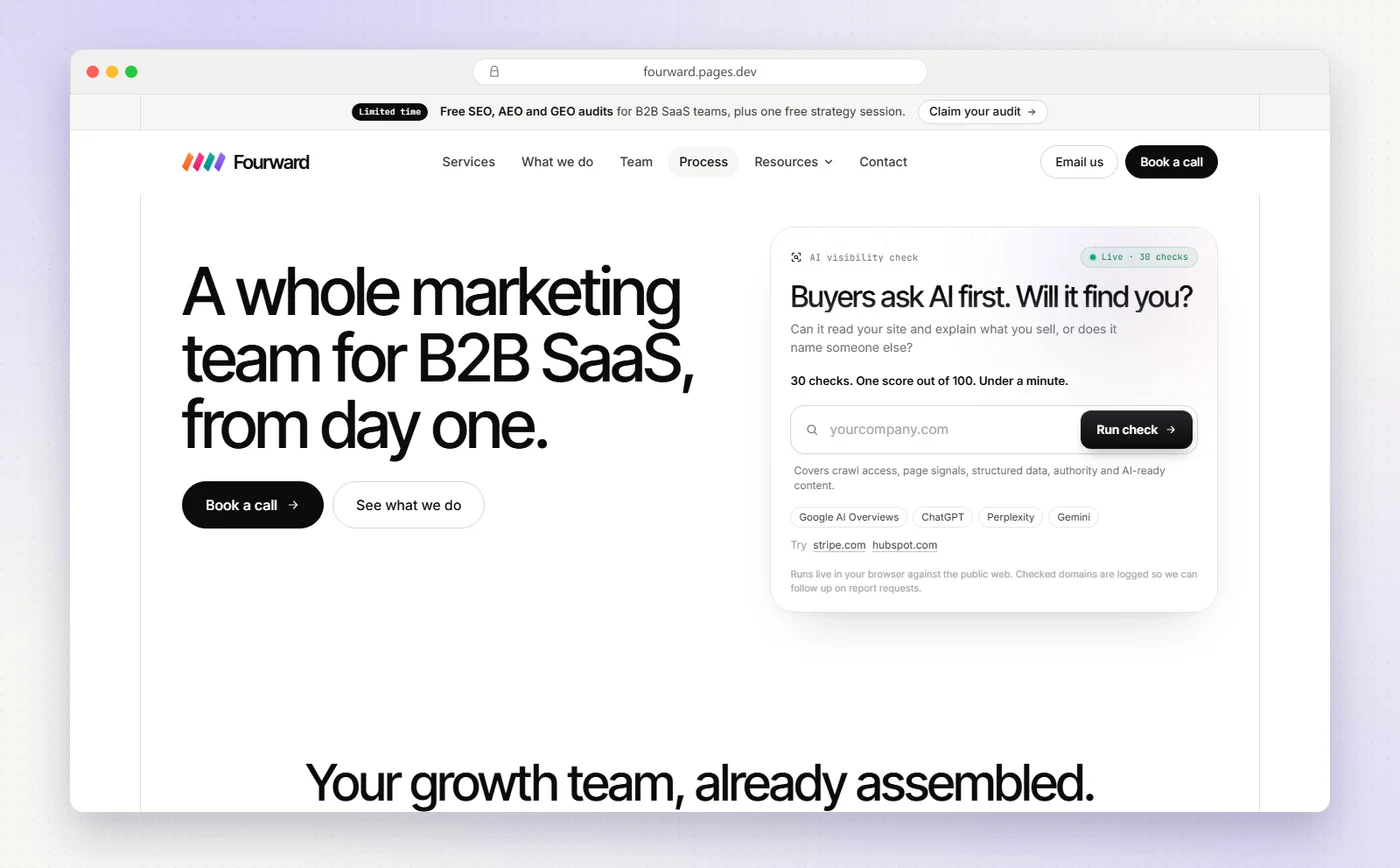
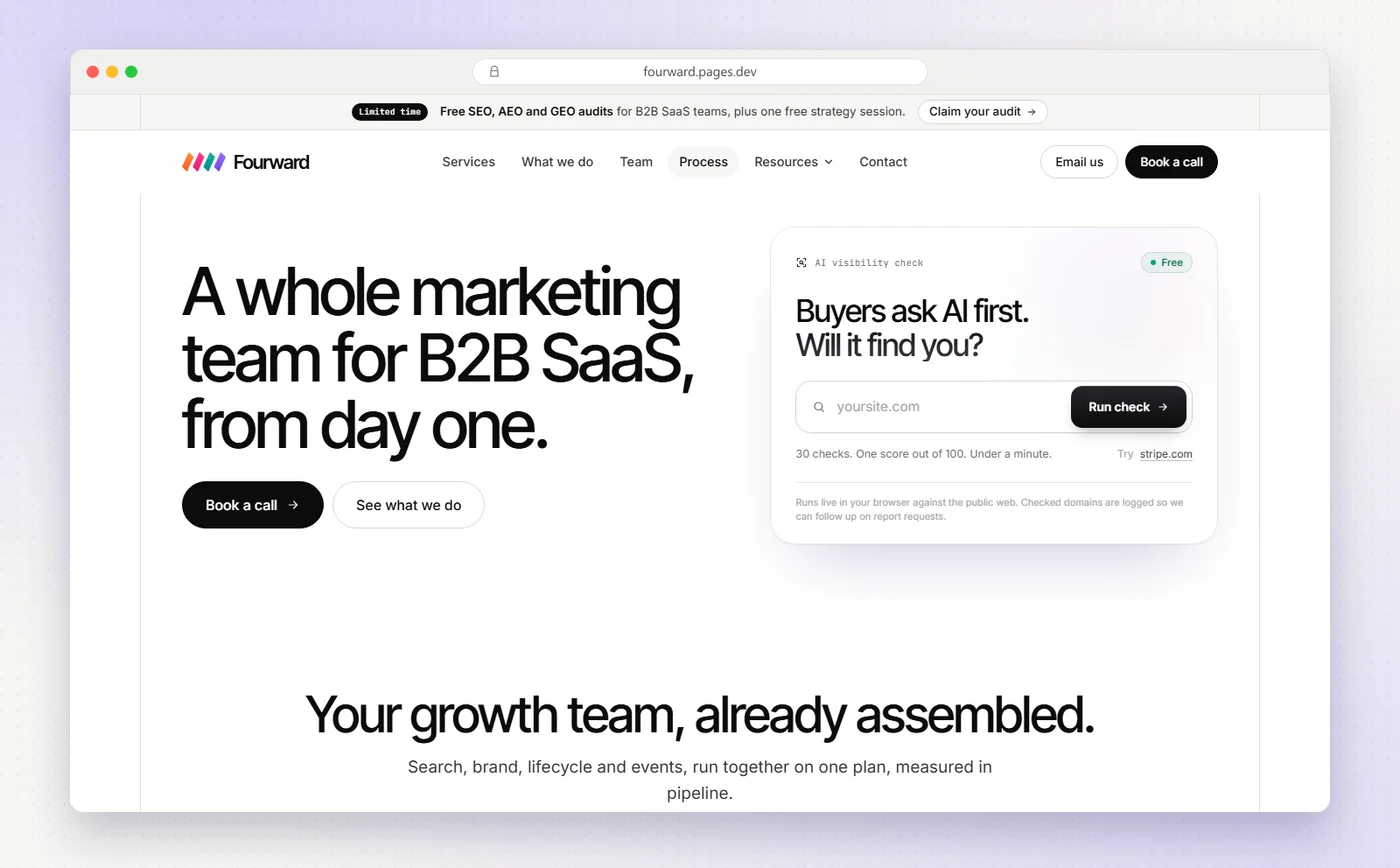
v1.10.1: stronger Fourward entries and homepage screenshot in both agency guides

Changed region(s): [[0.5529, 0.28, 0.86, 0.7154], [0.215, 0.8088, 0.7986, 0.9332]]

diff --git a/blog/best-b2b-saas-marketing-agencies/index.html b/blog/best-b2b-saas-marketing-agencies/index.html
@@ -27,7 +27,7 @@
 <meta name="twitter:title" content="Best B2B SaaS marketing agencies in 2026: 14 compared">
 <meta name="twitter:description" content="Looking for a B2B SaaS marketing agency? I compared 14 on their own sites: services, published pricing, client results and who each one suits.">
 <link rel="stylesheet" href="../../css/blog.css?v=47">
-<script type="application/ld+json">{"@context":"https://schema.org","@type":"BlogPosting","@id":"https://fourward.pages.dev/blog/best-b2b-saas-marketing-agencies/#article","mainEntityOfPage":"https://fourward.pages.dev/blog/best-b2b-saas-marketing-agencies/","headline":"The 14 best B2B SaaS marketing agencies in 2026, compared on price, proof and fit","description":"Looking for a B2B SaaS marketing agency? I compared 14 on their own sites: services, published pricing, client results and who each one suits.","image":["https://fourward.pages.dev/blog/best-b2b-saas-marketing-agencies/og.png","https://fourward.pages.dev/blog/best-b2b-saas-marketing-agencies/cover.webp"],"datePublished":"2026-10-19T09:00:00+05:30","dateModified":"2026-10-19T09:00:00+05:30","author":{"@type":"Person","@id":"https://fourward.pages.dev/authors/deepak-sharma/#person","name":"Deepak Sharma","url":"https://fourward.pages.dev/authors/deepak-sharma/","image":"https://fourward.pages.dev/assets/team/deepak-sq.jpg","jobTitle":"Search, content and AI visibility at Fourward","sameAs":["https://www.linkedin.com/in/deepak-sharma-4403bb227"],"worksFor":{"@id":"https://fourward.pages.dev/#org"}},"publisher":{"@type":"Organization","@id":"https://fourward.pages.dev/#org","name":"Fourward","url":"https://fourward.pages.dev/","logo":{"@type":"ImageObject","url":"https://fourward.pages.dev/assets/logo-512.png","width":512,"height":512}},"inLanguage":"en","wordCount":4775,"articleSection":"B2B SaaS marketing","about":["B2B SaaS marketing agency","SaaS marketing","B2B marketing agency","Demand generation","SaaS SEO"],"citation":["https://directiveconsulting.com/","https://directiveconsulting.com/about/our-story/","https://directiveconsulting.com/case-studies/fewer-leads-more-pipeline-from-digital-increase-revenue-109-qoq/","https://www.kalungi.com/","https://www.kalungi.com/services/full-service","https://www.kalungi.com/faq","https://www.kalungi.com/customers/dataguard","https://www.refinelabs.com/pricing","https://www.refinelabs.com/blog/megan-ownership-update","https://www.refinelabs.com/blog/refine-labs-acquire-mobi-solutions","https://www.refinelabs.com/marketing-operations","https://www.refinelabs.com/success-stories/clari","https://nogood.io/","https://nogood.io/saas-marketing-agency/","https://nogood.io/case-study/payzer/","https://www.poweredbysearch.com/pricing/","https://www.poweredbysearch.com/about-us/","https://www.simpletiger.com/pricing","https://www.simpletiger.com/saas-seo-agency","https://www.simpletiger.com/case-study/invoca","https://www.smartbugmedia.com/industry-saas","https://www.smartbugmedia.com/en/hubspot-onboarding-services-by-smartbug-media","https://www.smartbugmedia.com/about-us","https://www.klientboost.com/expertise/b2b-marketing-agency/","https://www.klientboost.com/expertise/saas-marketing-agency/","https://www.animalz.co/services","https://www.animalz.co/about","https://beomniscient.com/","https://beomniscient.com/why-us/","https://beomniscient.com/case-studies/smartling/","https://www.bayleafdigital.com/pricing/","https://www.bayleafdigital.com/case-study/16x-increase-in-opportunities-for-a-cybersecurity-saas/","https://www.heydigital.co/ai-info-page","https://www.heydigital.co/services/creative-strategy","https://www.heydigital.co/case-studies/toggl","https://foundationinc.co/industry-solutions/software-companies","https://foundationinc.co/leadership-team/","https://foundationinc.co/case-study/bitly","../../tools/ai-crawler-checker/"]}</script>
+<script type="application/ld+json">{"@context":"https://schema.org","@type":"BlogPosting","@id":"https://fourward.pages.dev/blog/best-b2b-saas-marketing-agencies/#article","mainEntityOfPage":"https://fourward.pages.dev/blog/best-b2b-saas-marketing-agencies/","headline":"The 14 best B2B SaaS marketing agencies in 2026, compared on price, proof and fit","description":"Looking for a B2B SaaS marketing agency? I compared 14 on their own sites: services, published pricing, client results and who each one suits.","image":["https://fourward.pages.dev/blog/best-b2b-saas-marketing-agencies/og.png","https://fourward.pages.dev/blog/best-b2b-saas-marketing-agencies/cover.webp"],"datePublished":"2026-10-19T09:00:00+05:30","dateModified":"2026-10-19T09:00:00+05:30","author":{"@type":"Person","@id":"https://fourward.pages.dev/authors/deepak-sharma/#person","name":"Deepak Sharma","url":"https://fourward.pages.dev/authors/deepak-sharma/","image":"https://fourward.pages.dev/assets/team/deepak-sq.jpg","jobTitle":"Search, content and AI visibility at Fourward","sameAs":["https://www.linkedin.com/in/deepak-sharma-4403bb227"],"worksFor":{"@id":"https://fourward.pages.dev/#org"}},"publisher":{"@type":"Organization","@id":"https://fourward.pages.dev/#org","name":"Fourward","url":"https://fourward.pages.dev/","logo":{"@type":"ImageObject","url":"https://fourward.pages.dev/assets/logo-512.png","width":512,"height":512}},"inLanguage":"en","wordCount":4778,"articleSection":"B2B SaaS marketing","about":["B2B SaaS marketing agency","SaaS marketing","B2B marketing agency","Demand generation","SaaS SEO"],"citation":["https://directiveconsulting.com/","https://directiveconsulting.com/about/our-story/","https://directiveconsulting.com/case-studies/fewer-leads-more-pipeline-from-digital-increase-revenue-109-qoq/","https://www.kalungi.com/","https://www.kalungi.com/services/full-service","https://www.kalungi.com/faq","https://www.kalungi.com/customers/dataguard","https://www.refinelabs.com/pricing","https://www.refinelabs.com/blog/megan-ownership-update","https://www.refinelabs.com/blog/refine-labs-acquire-mobi-solutions","https://www.refinelabs.com/marketing-operations","https://www.refinelabs.com/success-stories/clari","https://nogood.io/","https://nogood.io/saas-marketing-agency/","https://nogood.io/case-study/payzer/","https://www.poweredbysearch.com/pricing/","https://www.poweredbysearch.com/about-us/","https://www.simpletiger.com/pricing","https://www.simpletiger.com/saas-seo-agency","https://www.simpletiger.com/case-study/invoca","https://www.smartbugmedia.com/industry-saas","https://www.smartbugmedia.com/en/hubspot-onboarding-services-by-smartbug-media","https://www.smartbugmedia.com/about-us","https://www.klientboost.com/expertise/b2b-marketing-agency/","https://www.klientboost.com/expertise/saas-marketing-agency/","https://www.animalz.co/services","https://www.animalz.co/about","https://beomniscient.com/","https://beomniscient.com/why-us/","https://beomniscient.com/case-studies/smartling/","https://www.bayleafdigital.com/pricing/","https://www.bayleafdigital.com/case-study/16x-increase-in-opportunities-for-a-cybersecurity-saas/","https://www.heydigital.co/ai-info-page","https://www.heydigital.co/services/creative-strategy","https://www.heydigital.co/case-studies/toggl","https://foundationinc.co/industry-solutions/software-companies","https://foundationinc.co/leadership-team/","https://foundationinc.co/case-study/bitly","../../tools/ai-crawler-checker/"]}</script>
 <script type="application/ld+json">{"@context":"https://schema.org","@type":"BreadcrumbList","itemListElement":[{"@type":"ListItem","position":1,"name":"Home","item":"https://fourward.pages.dev/"},{"@type":"ListItem","position":2,"name":"Resources","item":"https://fourward.pages.dev/resources/"},{"@type":"ListItem","position":3,"name":"Blog","item":"https://fourward.pages.dev/blog/"},{"@type":"ListItem","position":4,"name":"Best B2B SaaS marketing agencies","item":"https://fourward.pages.dev/blog/best-b2b-saas-marketing-agencies/"}]}</script>
 <script type="application/ld+json">{"@context":"https://schema.org","@type":"FAQPage","mainEntity":[{"@type":"Question","name":"What does a B2B SaaS marketing agency do?","acceptedAnswer":{"@type":"Answer","text":"It runs some or all of a SaaS company's marketing: SEO and content, paid ads, email and lifecycle, PR, events and, increasingly, AI search. Full-service agencies cover most channels, while specialists go deep on one, such as paid ads, SEO or HubSpot."}},{"@type":"Question","name":"How much does a B2B SaaS marketing agency cost?","acceptedAnswer":{"@type":"Answer","text":"Of the agencies in this guide that publish prices, plans start at $3,999 a month for Bay Leaf Digital's AI search package, and at $5,000 a month for Bay Leaf's full service and Powered by Search's paid media. Refine Labs' paid media starts at $14,000 a month, Kalungi's full-service team at $50,000 a month and Omniscient Digital at $120,000 a year. Ad spend is extra."}},{"@type":"Question","name":"Should I use an agency or build an in-house team?","acceptedAnswer":{"@type":"Answer","text":"It depends on your stage, budget and how fast you need results. I compared the year-one cost of an in-house team, an agency, a fractional CMO, freelancers and an embedded team in in-house marketing team vs agency."}},{"@type":"Question","name":"Full-service or specialist agency?","acceptedAnswer":{"@type":"Answer","text":"Choose full-service if you have no marketing team, or a small one, and need several channels at once. Choose a specialist if you already have a marketing leader and one channel, such as paid or SEO, is clearly the gap."}},{"@type":"Question","name":"How long are B2B SaaS agency contracts?","acceptedAnswer":{"@type":"Answer","text":"Usually three to twelve months. Refine Labs asks for six months on paid media, Kalungi suggests six to twelve months as a minimum, and KlientBoost starts at three months."}},{"@type":"Question","name":"Do B2B SaaS agencies handle AI search?","acceptedAnswer":{"@type":"Answer","text":"Most now do. Eleven of the thirteen outside agencies in this guide sell AI search work, and Refine Labs checks it inside its marketing operations offer. For specialists, see our guide to the best GEO agencies."}}]}</script>
 <script type="application/ld+json">{"@context":"https://schema.org","@type":"ItemList","name":"Best B2B SaaS marketing agencies in 2026","itemListOrder":"https://schema.org/ItemListUnordered","numberOfItems":14,"itemListElement":[{"@type":"ListItem","position":1,"item":{"@type":"Organization","name":"Fourward","url":"https://fourward.pages.dev/"}},{"@type":"ListItem","position":2,"item":{"@type":"Organization","name":"Directive","url":"https://directiveconsulting.com/"}},{"@type":"ListItem","position":3,"item":{"@type":"Organization","name":"Kalungi","url":"https://www.kalungi.com/"}},{"@type":"ListItem","position":4,"item":{"@type":"Organization","name":"Refine Labs","url":"https://www.refinelabs.com/"}},{"@type":"ListItem","position":5,"item":{"@type":"Organization","name":"NoGood","url":"https://nogood.io/"}},{"@type":"ListItem","position":6,"item":{"@type":"Organization","name":"Powered by Search","url":"https://www.poweredbysearch.com/"}},{"@type":"ListItem","position":7,"item":{"@type":"Organization","name":"SimpleTiger","url":"https://www.simpletiger.com/"}},{"@type":"ListItem","position":8,"item":{"@type":"Organization","name":"SmartBug Media","url":"https://www.smartbugmedia.com/"}},{"@type":"ListItem","position":9,"item":{"@type":"Organization","name":"KlientBoost","url":"https://www.klientboost.com/"}},{"@type":"ListItem","position":10,"item":{"@type":"Organization","name":"Animalz","url":"https://www.animalz.co/"}},{"@type":"ListItem","position":11,"item":{"@type":"Organization","name":"Omniscient Digital","url":"https://beomniscient.com/"}},{"@type":"ListItem","position":12,"item":{"@type":"Organization","name":"Bay Leaf Digital","url":"https://www.bayleafdigital.com/"}},{"@type":"ListItem","position":13,"item":{"@type":"Organization","name":"Hey Digital","url":"https://www.heydigital.co/"}},{"@type":"ListItem","position":14,"item":{"@type":"Organization","name":"Foundation Marketing","url":"https://foundationinc.co/"}}]}</script>
@@ -192,10 +192,10 @@
 <h2 id="fourward">1. Fourward</h2>
 <p class="entry-best"><b>Best for</b> B2B SaaS teams that want one senior team across search, brand, lifecycle and events, instead of several agencies.</p>
 <figure class="post-shot">
-  <img src="shots/fourward.webp" width="1400" height="868" alt="Fourward's homepage with the headline A whole marketing team for B2B SaaS, from day one." loading="lazy" decoding="async">
-  <figcaption>Our homepage, with the free AI visibility check on the right. <a href="../../">fourward.pages.dev</a></figcaption>
+  <img src="shots/fourward.webp" width="1400" height="868" alt="Fourward's homepage with the headline A whole marketing team for B2B SaaS, from day one, and the free AI visibility check beside it." loading="lazy" decoding="async">
+  <figcaption>Fourward's homepage, captured 20 Oct 2026. <a href="../../">fourward.pages.dev</a></figcaption>
 </figure>
-<p>Full disclosure: this is my team, and we're the newest agency in this list, so I won't claim a case-study library we don't have yet. What we offer is one senior marketing team that leads search, content and AI visibility, brand, PR and partnerships, lifecycle and demand generation, and field marketing and events, on one plan.</p>
+<p>Fourward is one senior marketing team for B2B SaaS. It runs search, content and AI visibility, brand, PR and partnerships, lifecycle and demand generation, and field marketing and events on one plan, so every channel works toward the same pipeline goal. The people who plan the work lead it, and every engagement starts with a free audit and a written plan.</p>
 <ul class="entry-facts">
   <li><b>Who it's for</b><span>B2B SaaS companies that want one team across channels instead of a different agency for each.</span></li>
   <li><b>What we do</b><span>SEO, GEO and AEO, content and comparison pages, PR and online reputation, LinkedIn, HubSpot and email workflows, webinars and executive dinners.</span></li>
@@ -203,7 +203,7 @@
   <li><b>Free option</b><span>For a limited time, a free SEO, AEO and GEO audit and a 30-minute walkthrough, plus our free <a href="../../tools/ai-visibility-check/">AI visibility check</a> and <a href="../../tools/ai-crawler-checker/">AI crawler checker</a>.</span></li>
   <li><b>How it starts</b><span>A call, a free audit, then a written plan with the price within three working days.</span></li>
 </ul>
-<p class="entry-take"><b>My take</b> Pick us if you want your channels planned together by people who lead the work themselves. If you need a deep bench in one channel, a specialist further down this list will serve you better. <a href="../../#book">Book the free audit</a>.</p>
+<p class="entry-take"><b>My take</b> The strongest pick if you're tired of managing a separate agency for SEO, ads, PR and events. One team plans them together, senior people lead the work, and you see the plan and the price before you commit. <a href="../../#book">Book the free audit</a>.</p>
 
 <h2 id="directive">2. Directive</h2>
 <p class="entry-best"><b>Best for</b> Series A to IPO B2B tech companies that want performance marketing at scale.</p>

diff --git a/blog/best-geo-agencies/index.html b/blog/best-geo-agencies/index.html
@@ -27,7 +27,7 @@
 <meta name="twitter:title" content="Best GEO agencies in 2026: 12 compared, with pricing">
 <meta name="twitter:description" content="Looking for a GEO agency? I compared 12 on their own sites: what they do for AI search, published pricing, proof and free tools, and who each one suits.">
 <link rel="stylesheet" href="../../css/blog.css?v=47">
-<script type="application/ld+json">{"@context":"https://schema.org","@type":"BlogPosting","@id":"https://fourward.pages.dev/blog/best-geo-agencies/#article","mainEntityOfPage":"https://fourward.pages.dev/blog/best-geo-agencies/","headline":"The 12 best GEO agencies in 2026, compared on proof, price and fit","description":"Looking for a GEO agency? I compared 12 on their own sites: what they do for AI search, published pricing, proof and free tools, and who each one suits.","image":["https://fourward.pages.dev/blog/best-geo-agencies/og.png","https://fourward.pages.dev/blog/best-geo-agencies/cover.webp"],"datePublished":"2026-10-19T09:00:00+05:30","dateModified":"2026-10-19T09:00:00+05:30","author":{"@type":"Person","@id":"https://fourward.pages.dev/authors/deepak-sharma/#person","name":"Deepak Sharma","url":"https://fourward.pages.dev/authors/deepak-sharma/","image":"https://fourward.pages.dev/assets/team/deepak-sq.jpg","jobTitle":"Search, content and AI visibility at Fourward","sameAs":["https://www.linkedin.com/in/deepak-sharma-4403bb227"],"worksFor":{"@id":"https://fourward.pages.dev/#org"}},"publisher":{"@type":"Organization","@id":"https://fourward.pages.dev/#org","name":"Fourward","url":"https://fourward.pages.dev/","logo":{"@type":"ImageObject","url":"https://fourward.pages.dev/assets/logo-512.png","width":512,"height":512}},"inLanguage":"en","wordCount":4947,"articleSection":"B2B SaaS marketing","about":["Generative engine optimization","GEO agency","AI search optimization","Answer engine optimization","AI visibility"],"citation":["https://ipullrank.com/services/geo","https://ipullrank.com/ai-search","https://ipullrank.com/case-studies/case-study-telecom-industry","https://www.siegemedia.com/services/geo","https://www.siegemedia.com/work/zendesk-content-marketing","https://www.siegemedia.com/work/grow-therapy-content-marketing","https://firstpagesage.com/generative-engine-optimization/","https://firstpagesage.com/seo-blog/geo-aeo-pricing-statistics/","https://graphite.io/aeo","https://graphite.io/five-percent/case-studies/webflow-llm-signups","https://beomniscient.com/services/answer-engine-optimization/","https://beomniscient.com/services/faqs/","https://beomniscient.com/case-studies/convert/","https://gofishdigital.com/services/owned/generative-engine-optimization/","https://gofishdigital.com/audit/ai-review/","https://www.seerinteractive.com/generative-engine-optimization","https://www.seerinteractive.com/work/case-studies/trex-ai-overviews","https://www.webfx.com/seo/services/ai-search-optimization/","https://www.webfx.com/seo/pricing/ai-seo/","https://www.webfx.com/about/","https://directiveconsulting.com/services/generative-engine-optimization-agency/","https://directiveconsulting.com/case-studies/how-case-status-turned-ai-search-into-a-20-lift-in-bookings/","https://victorious.com/services/generative-engine-optimization/","https://victorious.com/ai-information/","https://victorious.com/case-studies/instant-financial/","https://www.growandconvert.com/b2b-saas-geo-agency/","https://www.growandconvert.com/seo-geo-service/","https://www.poweredbysearch.com/pricing/","https://nogood.io/answer-engine-optimization-aeo/","../../tools/ai-crawler-checker/"]}</script>
+<script type="application/ld+json">{"@context":"https://schema.org","@type":"BlogPosting","@id":"https://fourward.pages.dev/blog/best-geo-agencies/#article","mainEntityOfPage":"https://fourward.pages.dev/blog/best-geo-agencies/","headline":"The 12 best GEO agencies in 2026, compared on proof, price and fit","description":"Looking for a GEO agency? I compared 12 on their own sites: what they do for AI search, published pricing, proof and free tools, and who each one suits.","image":["https://fourward.pages.dev/blog/best-geo-agencies/og.png","https://fourward.pages.dev/blog/best-geo-agencies/cover.webp"],"datePublished":"2026-10-19T09:00:00+05:30","dateModified":"2026-10-19T09:00:00+05:30","author":{"@type":"Person","@id":"https://fourward.pages.dev/authors/deepak-sharma/#person","name":"Deepak Sharma","url":"https://fourward.pages.dev/authors/deepak-sharma/","image":"https://fourward.pages.dev/assets/team/deepak-sq.jpg","jobTitle":"Search, content and AI visibility at Fourward","sameAs":["https://www.linkedin.com/in/deepak-sharma-4403bb227"],"worksFor":{"@id":"https://fourward.pages.dev/#org"}},"publisher":{"@type":"Organization","@id":"https://fourward.pages.dev/#org","name":"Fourward","url":"https://fourward.pages.dev/","logo":{"@type":"ImageObject","url":"https://fourward.pages.dev/assets/logo-512.png","width":512,"height":512}},"inLanguage":"en","wordCount":4959,"articleSection":"B2B SaaS marketing","about":["Generative engine optimization","GEO agency","AI search optimization","Answer engine optimization","AI visibility"],"citation":["https://ipullrank.com/services/geo","https://ipullrank.com/ai-search","https://ipullrank.com/case-studies/case-study-telecom-industry","https://www.siegemedia.com/services/geo","https://www.siegemedia.com/work/zendesk-content-marketing","https://www.siegemedia.com/work/grow-therapy-content-marketing","https://firstpagesage.com/generative-engine-optimization/","https://firstpagesage.com/seo-blog/geo-aeo-pricing-statistics/","https://graphite.io/aeo","https://graphite.io/five-percent/case-studies/webflow-llm-signups","https://beomniscient.com/services/answer-engine-optimization/","https://beomniscient.com/services/faqs/","https://beomniscient.com/case-studies/convert/","https://gofishdigital.com/services/owned/generative-engine-optimization/","https://gofishdigital.com/audit/ai-review/","https://www.seerinteractive.com/generative-engine-optimization","https://www.seerinteractive.com/work/case-studies/trex-ai-overviews","https://www.webfx.com/seo/services/ai-search-optimization/","https://www.webfx.com/seo/pricing/ai-seo/","https://www.webfx.com/about/","https://directiveconsulting.com/services/generative-engine-optimization-agency/","https://directiveconsulting.com/case-studies/how-case-status-turned-ai-search-into-a-20-lift-in-bookings/","https://victorious.com/services/generative-engine-optimization/","https://victorious.com/ai-information/","https://victorious.com/case-studies/instant-financial/","https://www.growandconvert.com/b2b-saas-geo-agency/","https://www.growandconvert.com/seo-geo-service/","https://www.poweredbysearch.com/pricing/","https://nogood.io/answer-engine-optimization-aeo/","../../tools/ai-crawler-checker/"]}</script>
 <script type="application/ld+json">{"@context":"https://schema.org","@type":"BreadcrumbList","itemListElement":[{"@type":"ListItem","position":1,"name":"Home","item":"https://fourward.pages.dev/"},{"@type":"ListItem","position":2,"name":"Resources","item":"https://fourward.pages.dev/resources/"},{"@type":"ListItem","position":3,"name":"Blog","item":"https://fourward.pages.dev/blog/"},{"@type":"ListItem","position":4,"name":"Best GEO agencies","item":"https://fourward.pages.dev/blog/best-geo-agencies/"}]}</script>
 <script type="application/ld+json">{"@context":"https://schema.org","@type":"FAQPage","mainEntity":[{"@type":"Question","name":"What is a GEO agency?","acceptedAnswer":{"@type":"Answer","text":"A GEO (generative engine optimization) agency works to get your brand mentioned and cited in AI answers from ChatGPT, Perplexity, Gemini, Claude, Copilot and Google's AI Overviews and AI Mode. The work covers crawler access, structured data, content that answers buying questions, and mentions on the sites those engines trust."}},{"@type":"Question","name":"How much does a GEO agency cost?","acceptedAnswer":{"@type":"Answer","text":"Of the agencies in this guide that publish prices, plans start at $3,000 a month with WebFX, First Page Sage charges $6,000–$12,000 a month, and Omniscient Digital's full-service work typically starts at $120,000 a year. iPullRank publishes bands from $30,000 without saying the period. First Page Sage's Q3 2026 research puts the median GEO and AEO retainer at $6,850 a month."}},{"@type":"Question","name":"Is GEO different from SEO?","acceptedAnswer":{"@type":"Answer","text":"They overlap, and most agencies here treat GEO as an extension of SEO, because AI answers often draw on pages that already rank. GEO adds work that SEO rarely covers: tracking prompts across AI engines, shaping the third-party sources AI cites, and writing pages that are easy to quote."}},{"@type":"Question","name":"How long does GEO take to work?","acceptedAnswer":{"@type":"Answer","text":"Agencies in this guide plan in quarters. Victorious runs 90-day sprints, iPullRank offers a three-month sprint, and Siege Media asks for six months or more. Technical fixes show up first. Citations earned on other sites take longer."}},{"@type":"Question","name":"Can I do GEO in-house?","acceptedAnswer":{"@type":"Answer","text":"Yes, if someone owns it. Check that AI crawlers can read your site, publish pages that answer your buyers' comparison and pricing questions, and track a fixed list of prompts every month. Agencies help most with off-site work and measurement."}},{"@type":"Question","name":"How do I check if AI engines can read my site?","acceptedAnswer":{"@type":"Answer","text":"Run it through a crawler checker. Our free AI crawler checker tests your robots.txt and firewall against 20 AI bots, including GPTBot, ClaudeBot and PerplexityBot, and shows whether you publish an llms.txt file."}}]}</script>
 <script type="application/ld+json">{"@context":"https://schema.org","@type":"ItemList","name":"Best GEO agencies in 2026","itemListOrder":"https://schema.org/ItemListUnordered","numberOfItems":12,"itemListElement":[{"@type":"ListItem","position":1,"item":{"@type":"Organization","name":"Fourward","url":"https://fourward.pages.dev/"}},{"@type":"ListItem","position":2,"item":{"@type":"Organization","name":"iPullRank","url":"https://ipullrank.com/"}},{"@type":"ListItem","position":3,"item":{"@type":"Organization","name":"Siege Media","url":"https://www.siegemedia.com/"}},{"@type":"ListItem","position":4,"item":{"@type":"Organization","name":"First Page Sage","url":"https://firstpagesage.com/"}},{"@type":"ListItem","position":5,"item":{"@type":"Organization","name":"Graphite","url":"https://graphite.io/"}},{"@type":"ListItem","position":6,"item":{"@type":"Organization","name":"Omniscient Digital","url":"https://beomniscient.com/"}},{"@type":"ListItem","position":7,"item":{"@type":"Organization","name":"Go Fish Digital","url":"https://gofishdigital.com/"}},{"@type":"ListItem","position":8,"item":{"@type":"Organization","name":"Seer Interactive","url":"https://www.seerinteractive.com/"}},{"@type":"ListItem","position":9,"item":{"@type":"Organization","name":"WebFX","url":"https://www.webfx.com/"}},{"@type":"ListItem","position":10,"item":{"@type":"Organization","name":"Directive","url":"https://directiveconsulting.com/"}},{"@type":"ListItem","position":11,"item":{"@type":"Organization","name":"Victorious","url":"https://victorious.com/"}},{"@type":"ListItem","position":12,"item":{"@type":"Organization","name":"Grow and Convert","url":"https://www.growandconvert.com/"}}]}</script>
@@ -218,18 +218,18 @@
 <h2 id="fourward">1. Fourward</h2>
 <p class="entry-best"><b>Best for</b> B2B SaaS teams that want GEO run by the same senior team as their SEO, brand, PR and lifecycle.</p>
 <figure class="post-shot">
-  <img src="shots/fourward.webp" width="1400" height="868" alt="Fourward's free AI crawler checker showing which AI bots can read hubspot.com." loading="lazy" decoding="async">
-  <figcaption>Our free AI crawler checker, one of two free tools we built for AI search. <a href="../../tools/ai-crawler-checker/">Try it</a></figcaption>
+  <img src="shots/fourward.webp" width="1400" height="868" alt="Fourward's homepage with the headline A whole marketing team for B2B SaaS, from day one, and the free AI visibility check beside it." loading="lazy" decoding="async">
+  <figcaption>Fourward's homepage, captured 20 Oct 2026. <a href="../../">fourward.pages.dev</a></figcaption>
 </figure>
-<p>Full disclosure: this is my team. We're newer than every other agency here, so I won't claim a case-study library we don't have yet. What we offer is one senior team that leads search, content and AI visibility alongside brand, PR, lifecycle and events, so the pages AI cites and the rest of your marketing move together.</p>
+<p>Fourward runs GEO for B2B SaaS as part of one plan with SEO, content, PR and lifecycle, led by one senior team. That matters for AI search: the pages AI cites, the reviews and press it trusts, and the comparisons buyers ask about all get built together. The team also built two free AI search tools, an AI visibility check and an AI crawler checker.</p>
 <ul class="entry-facts">
-  <li><b>Who it's for</b><span>B2B SaaS companies.</span></li>
+  <li><b>Who it's for</b><span>B2B SaaS companies that want AI search handled with the rest of their marketing.</span></li>
   <li><b>What we do</b><span>Technical SEO, GEO and AEO, comparison pages, structured data and entity work, and PR, reviews and the third-party pages AI answers lean on.</span></li>
   <li><b>Pricing</b><span>Set in a written plan after a free audit, as a monthly partnership or a fixed project.</span></li>
   <li><b>Free option</b><span>A free <a href="../../tools/ai-visibility-check/">AI visibility check</a>, a free <a href="../../tools/ai-crawler-checker/">AI crawler checker</a> and, for a limited time, a free SEO, AEO and GEO audit.</span></li>
   <li><b>How it starts</b><span>A call, a free audit, then a written plan with the price within three working days.</span></li>
 </ul>
-<p class="entry-take"><b>My take</b> Pick us if you want GEO tied to the rest of your marketing rather than run as its own project. If you need a big research bench or a long list of AI case studies today, start further down this list. <a href="../../#book">Book the free audit</a>.</p>
+<p class="entry-take"><b>My take</b> The pick if you want GEO done as part of your whole marketing plan, not bolted on to an SEO retainer. You get the technical fixes, the pages worth citing and the off-site mentions from one team, with a written plan before you sign. <a href="../../#book">Book the free audit</a>.</p>
 
 <h2 id="ipullrank">2. iPullRank</h2>
 <p class="entry-best"><b>Best for</b> Enterprise and mid-market brands that want the deepest technical take on AI search.</p>
